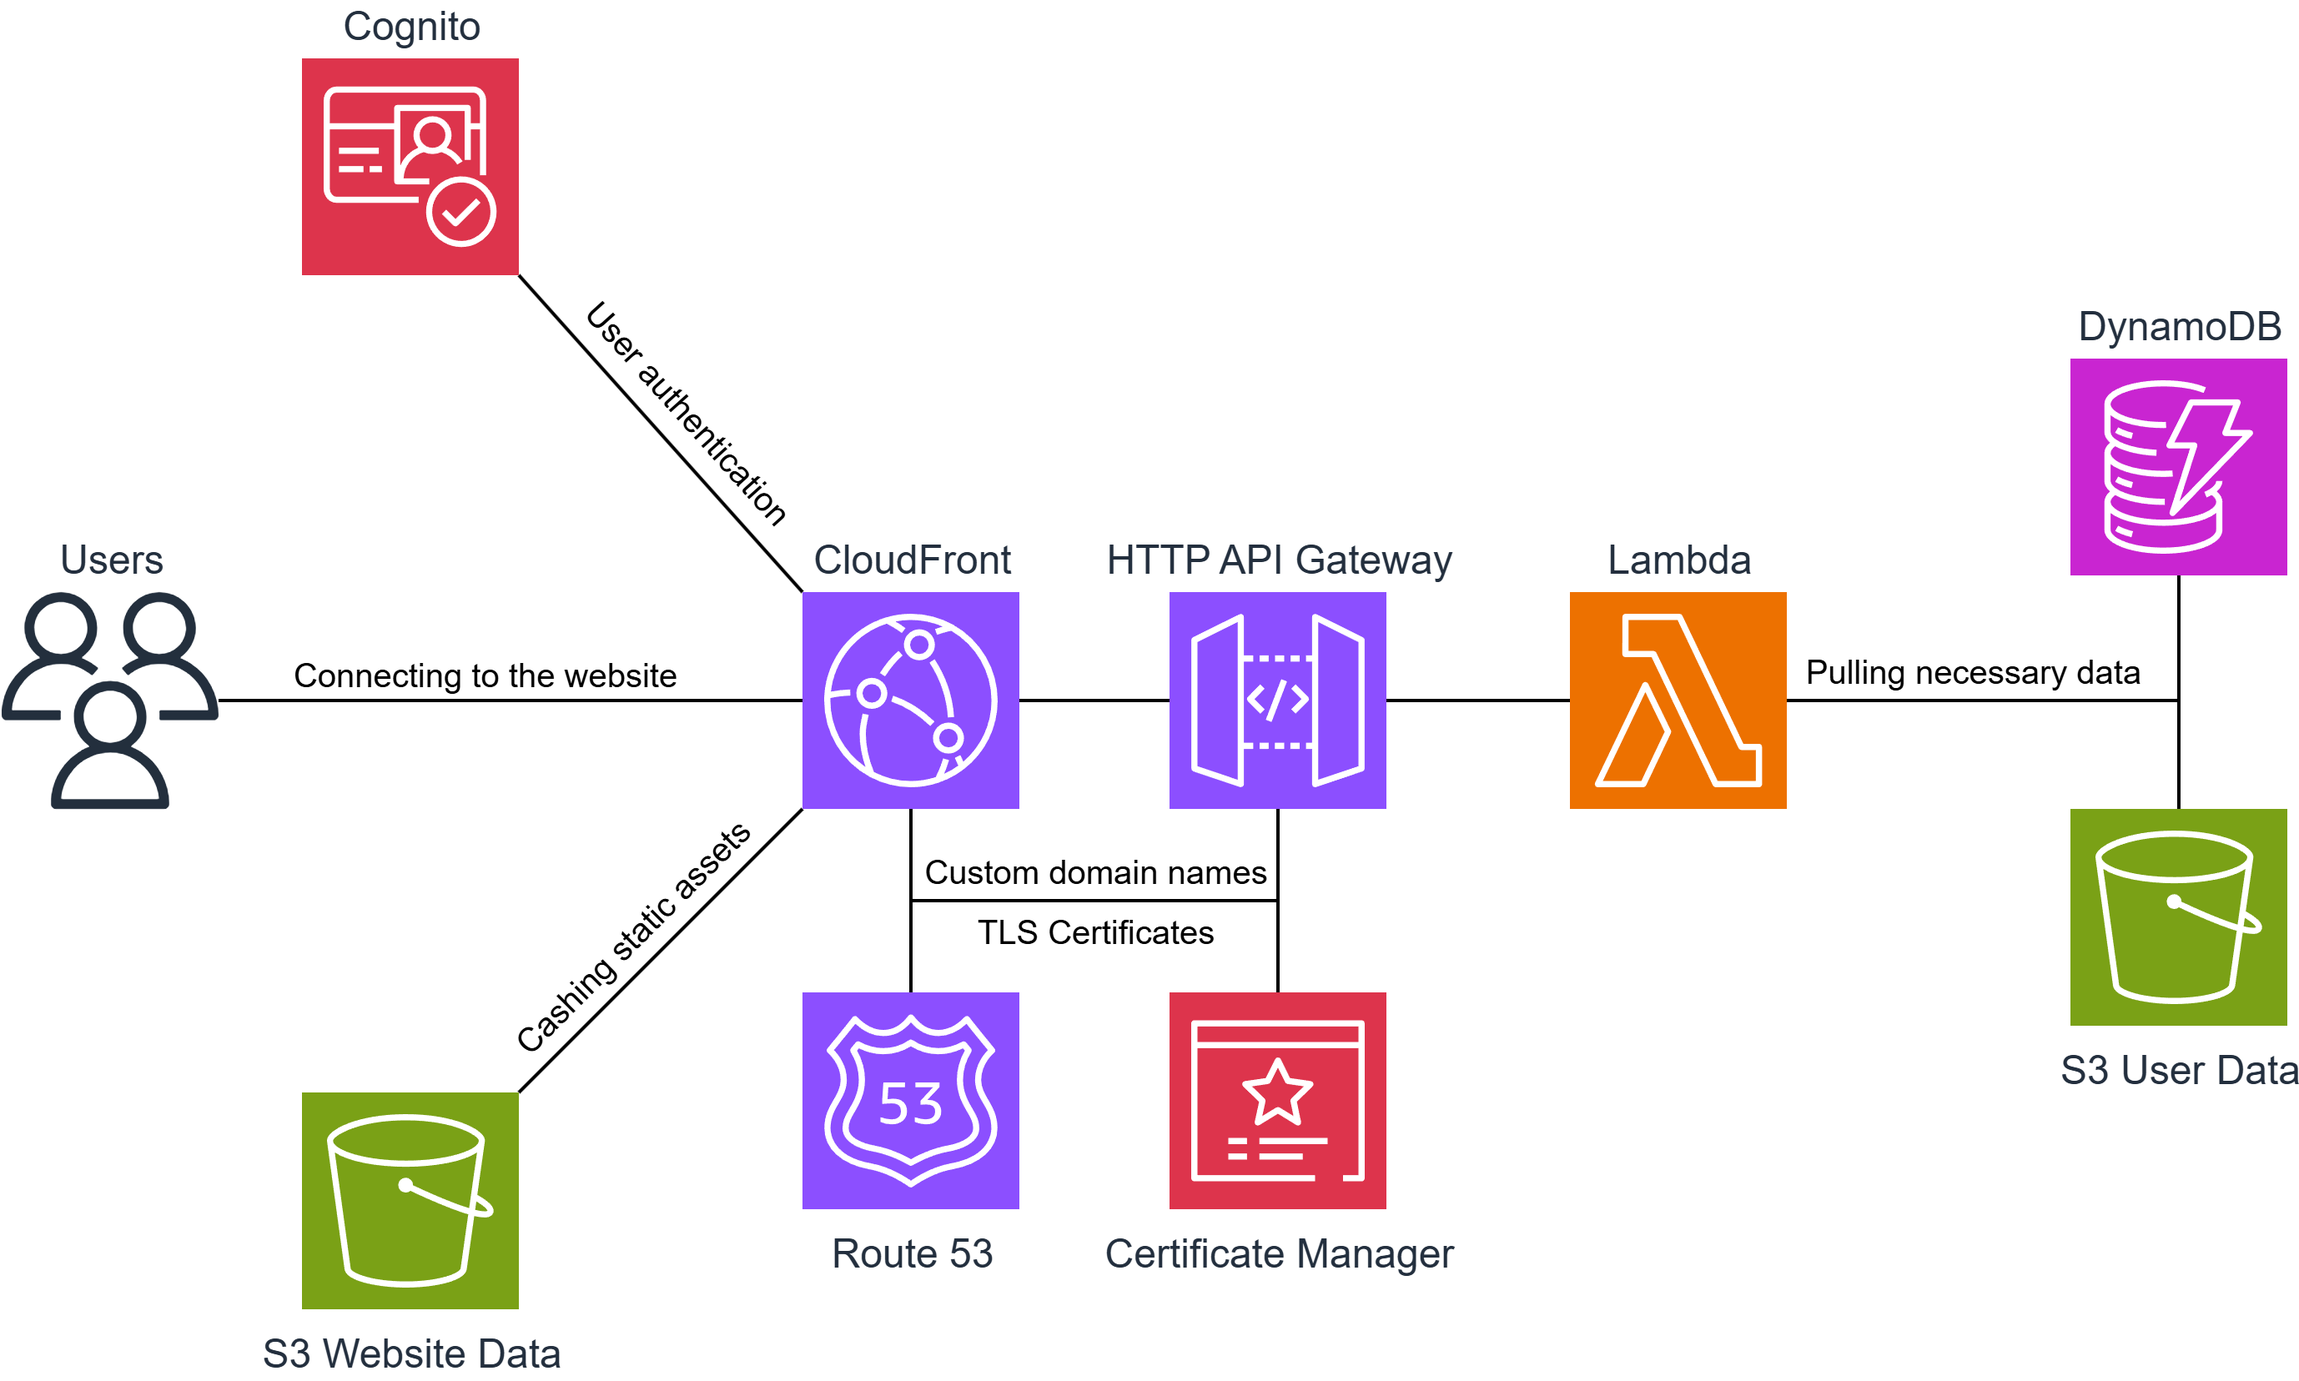
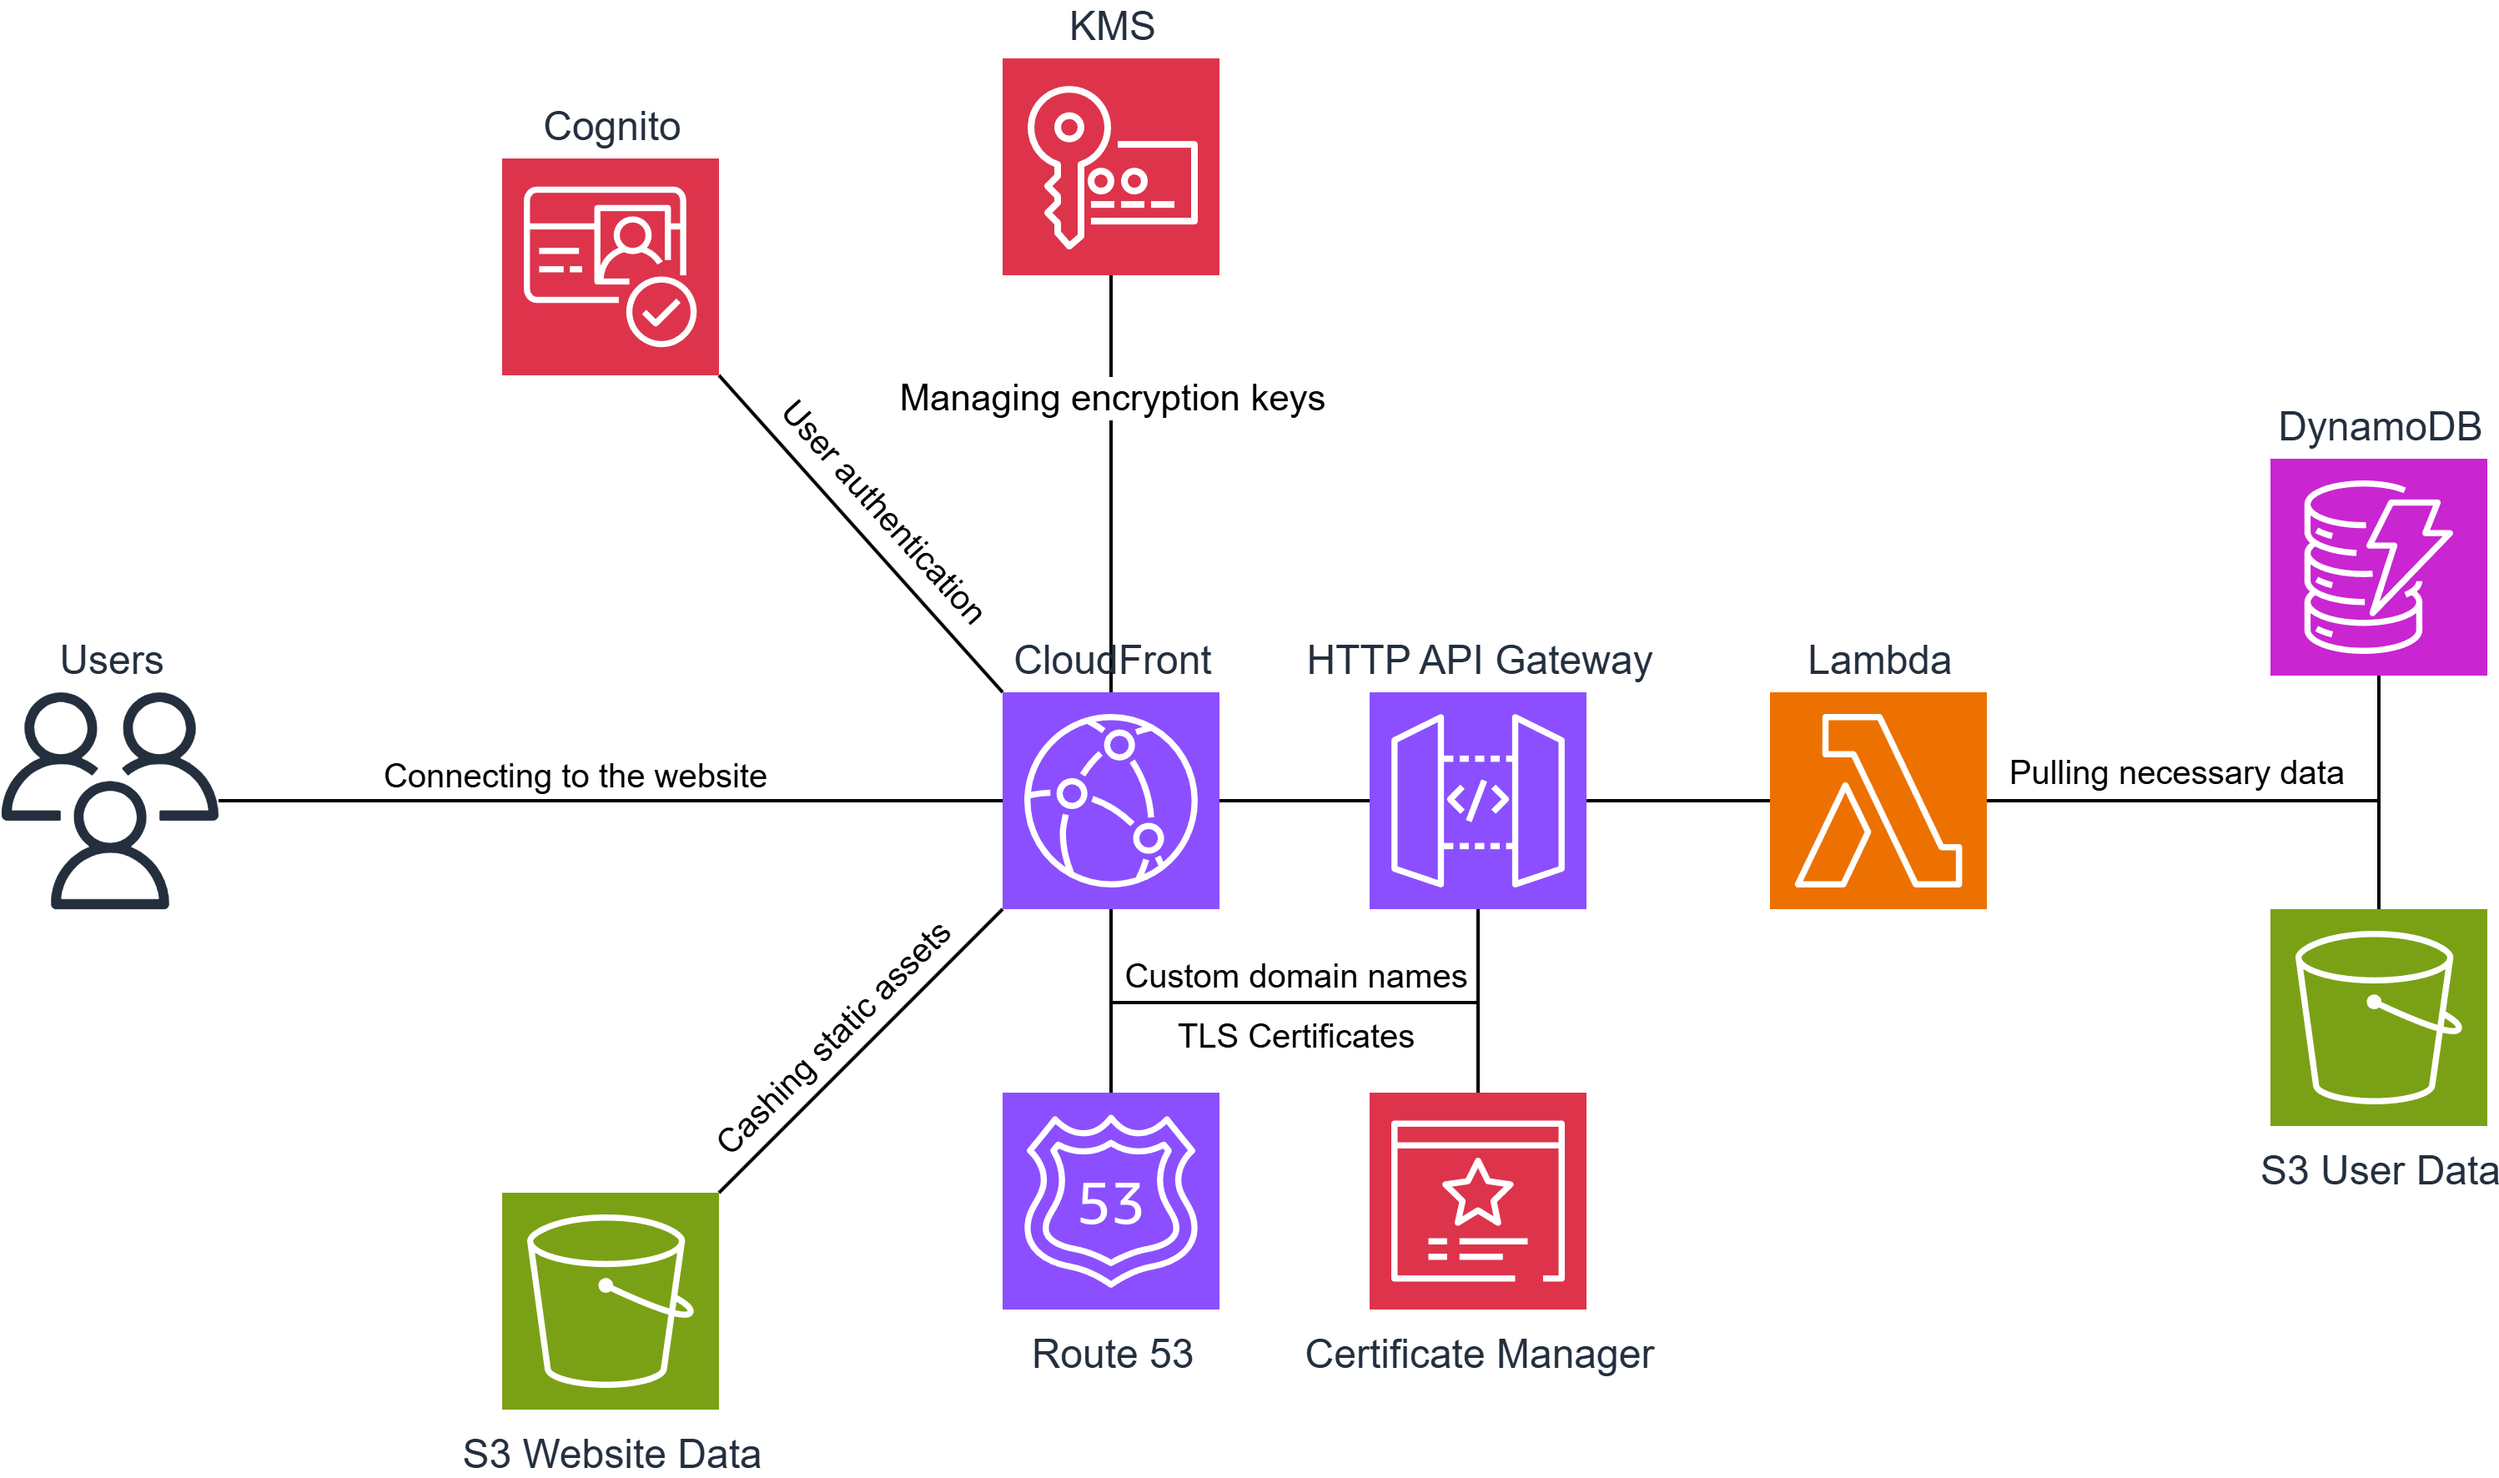
diagram update

diff --git a/README.md b/README.md
@@ -11,11 +11,12 @@ SecDrive is a security-focused cloud storage application that prioritizes user d
 - Secure file sharing with granular permission controls
 
 ## Technology Stack
-- Frontend: React.js with encryption libraries
-- Backend: AWS Lambda, API Gateway
+- Frontend: VueJS with TailwindCSS
+- Backend: AWS Lambda function written in GO, HTTP API Gateway
 - Storage: AWS S3, AWS DynamoDB
-- Security: AWS KMS for key management and client-side encryption, Cognito for authentication
+- Security: AWS KMS for key management and client-side encryption, Cognito for authentication, ACM for TLS certificates
 - Monitoring: CloudWatch and AWS Shield for threat detection
+- Additional: Route53 for custom domain names
 
 ## AWS Architecture
 ![AWS Architecture Diagram](docs/images/s4pp.png)
